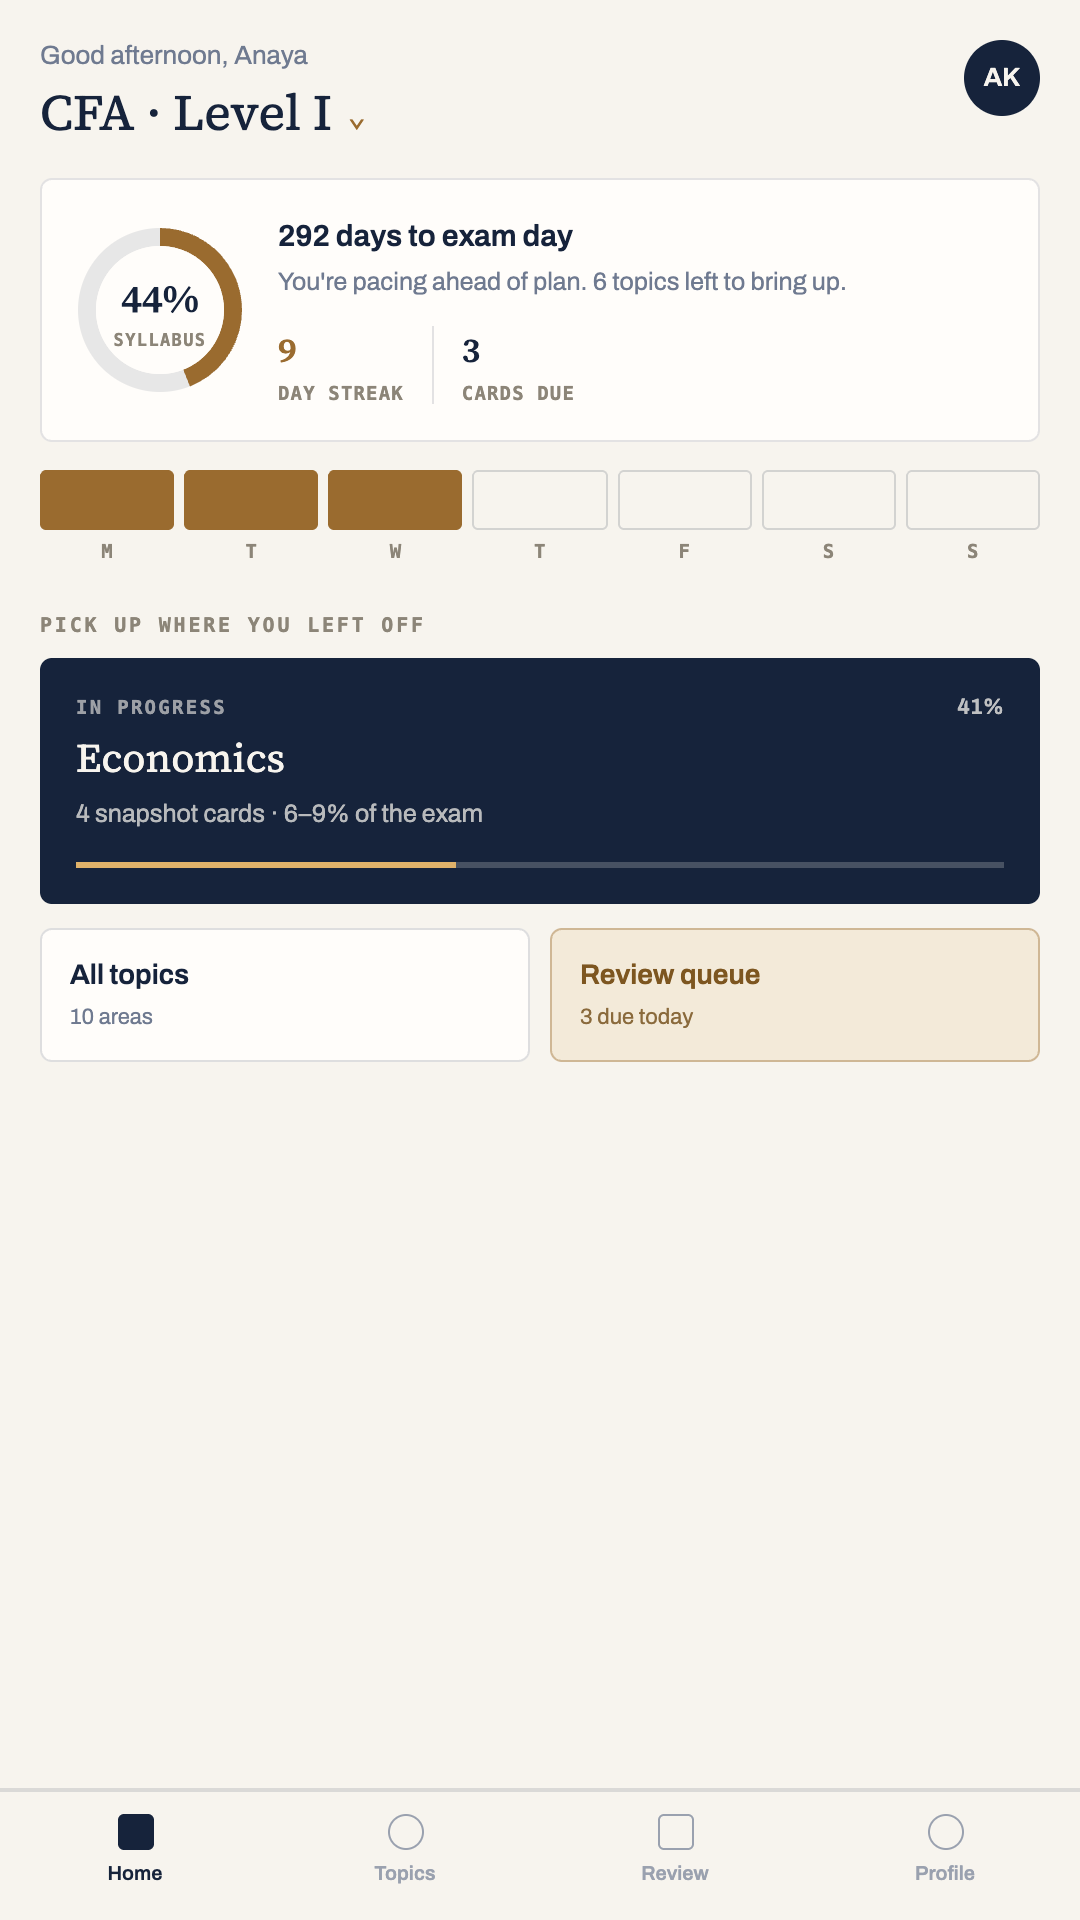
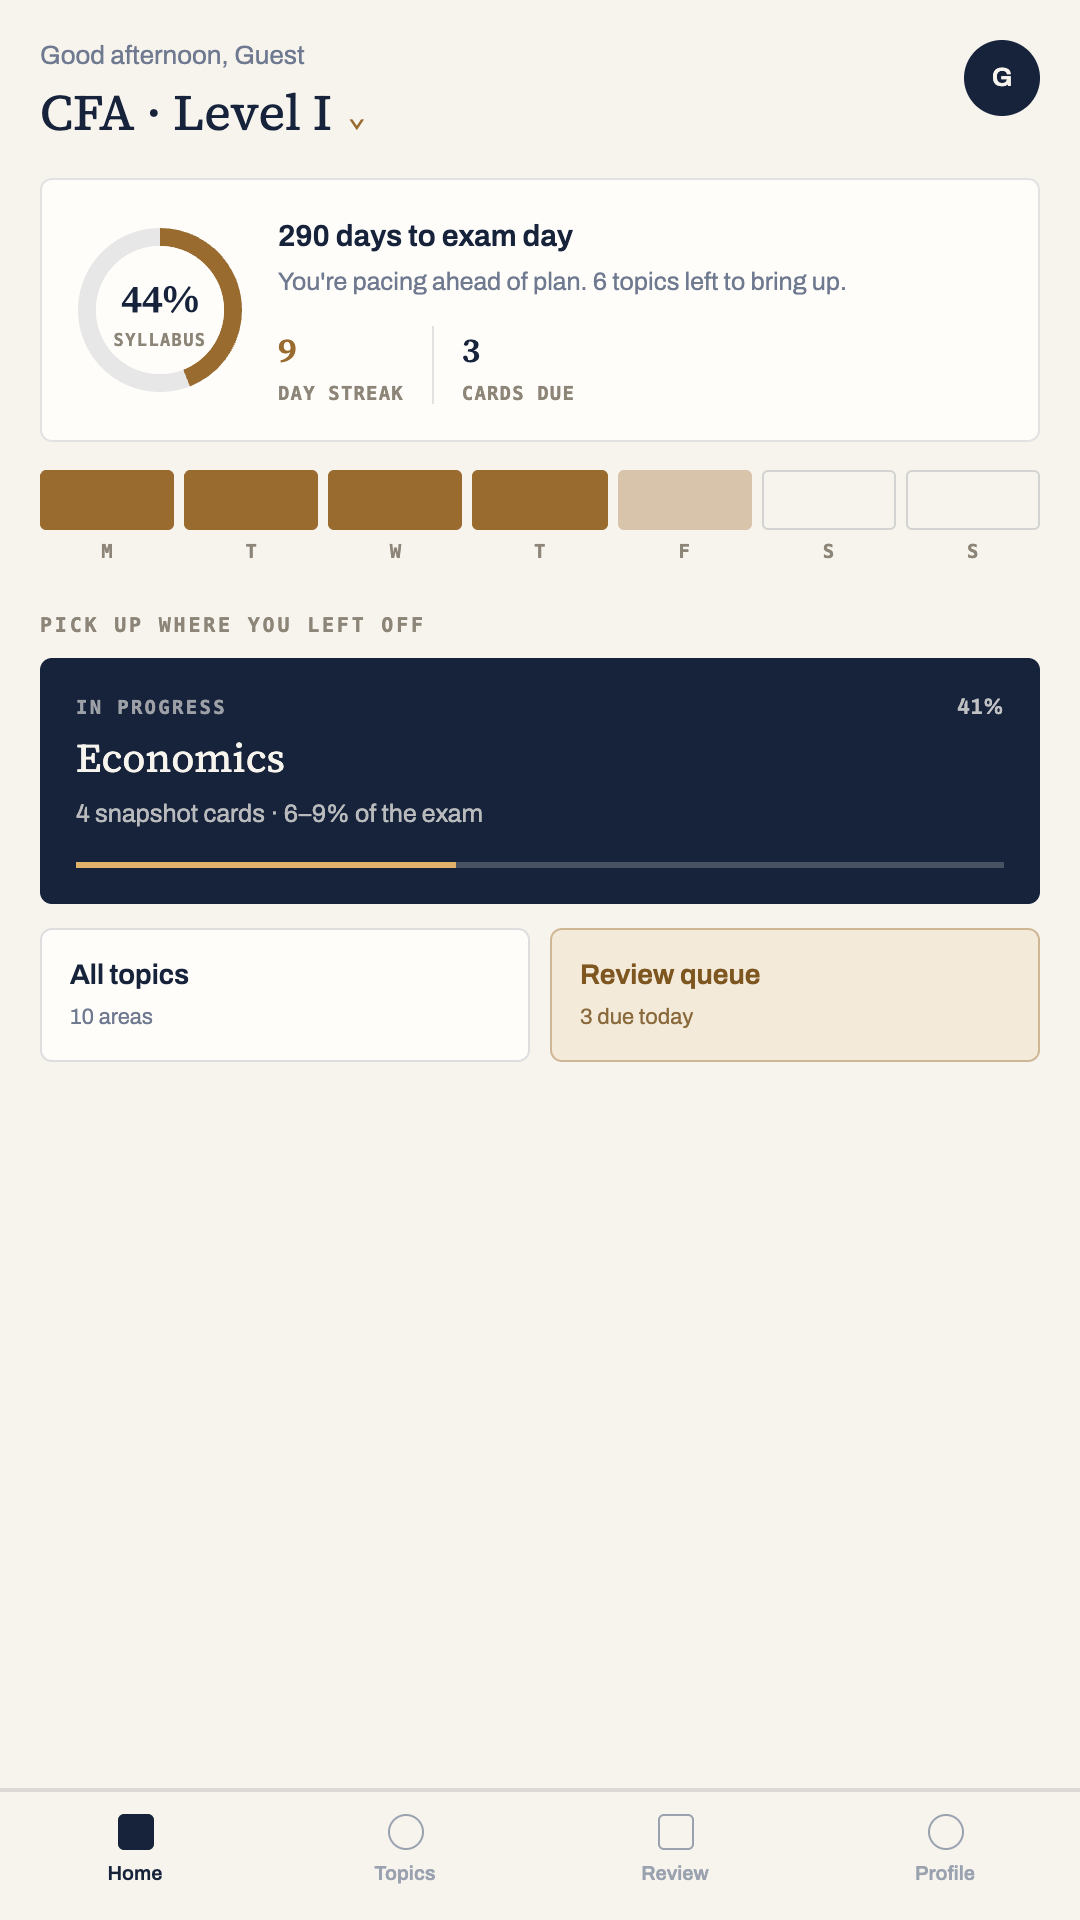
Recapture the home screenshot, and script the staging
The listing's dashboard shot still showed "Good afternoon, Anaya" and an "AK"
avatar from the design mock. It depicted a state the app can still reach, so it was
never a policy problem, but it advertised a name no first launch produces.

Recaptured with the shipped default. Everything else about the frame is held the
same as the original — 44% syllabus, a nine-day streak, three cards due, Economics
as the resume topic at 41% — so the shot drops into the existing set unchanged apart
from the name and the countdown, which has moved on two days.

The staging is now a script rather than a hand-built device state, because
hand-staging is precisely why this went stale without anyone noticing: nothing tied
the screenshot to the code that produced it. It seeds the store, freezes the clock
so the greeting does not depend on when it runs, and renders at 540x960 at 2x to
land on the 1080x1920 the rest of the set uses. The date is pinned rather than
"today" so a rerun next month produces the same image.

Economics is deliberately left out of cardProgress: the resume card only shows
"6-9% of the exam" while a topic's cards are unstarted, and that surfaces the
weighted-syllabus idea. Any entry there flips it to the duller "quiz unlocked".

Drives the installed Chrome through playwright-core, which arrives as an Expo
transitive dependency rather than one this project declares — noted in the script,
since an SDK upgrade could drop it.

Changed region(s): [[0.4278, 0.2188, 0.7028, 0.2812], [0.2139, 0.0, 0.275, 0.0312], [0.9167, 0.0312, 0.9472, 0.0625]]

diff --git a/docs/RELEASE_CHECKLIST.md b/docs/RELEASE_CHECKLIST.md
@@ -309,12 +309,15 @@ prebuild; it never runs on an Android device and is not in the shipped bundle. T
 
 ### Not fixed, on purpose
 
-- `store/screenshots/04-home-dashboard.png` still shows "Good afternoon, Anaya" and an "AK"
-  avatar from before the guest-name change. It depicts a state the app can still reach — a
-  candidate who has entered that name — so it is not a misleading-listing problem, but recapture
-  it if you want the listing to match a first launch.
 - `expo-doctor` reports 8 packages a patch behind. Not a security finding; batch it with the
   next functional change rather than adding dependency churn to a release build.
+
+### Fixed since
+
+`store/screenshots/04-home-dashboard.png` showed "Good afternoon, Anaya" and an "AK" avatar from
+before the guest-name change. Recaptured with the shipped default, and the staging is now a
+script (`npm run store:screenshot`) rather than a hand-built device state — see
+`docs/STORE_LISTING.md`. Hand-staging is the reason it went stale unnoticed in the first place.
 
 ---
 

diff --git a/docs/STORE_LISTING.md b/docs/STORE_LISTING.md
@@ -126,6 +126,19 @@ Association of Risk Professionals.
 Regenerate the feature graphic after a brand change with `npm run store:graphic`
 (then `sips -z 500 1024 store/feature-graphic@2x.png --out store/feature-graphic.png`).
 
+`04-home-dashboard` is regenerated, not hand-staged — it is the only shot needing a populated
+store (a streak, a part-finished syllabus, a review queue), and hand-staging is why it still
+showed the old placeholder profile name after that default changed:
+
+```bash
+npx expo export --platform web --output-dir .expo-web
+npm run store:screenshot
+```
+
+The seeded state lives at the top of `scripts/capture-home-screenshot.mjs` — the date is pinned
+so the countdown, streak and week strip stay consistent with each other and rerunning next month
+produces the same image. The other six are still captured by hand.
+
 Screenshots are ordered to lead with the product's actual idea rather than the dashboard —
 upload them in this order:
 
